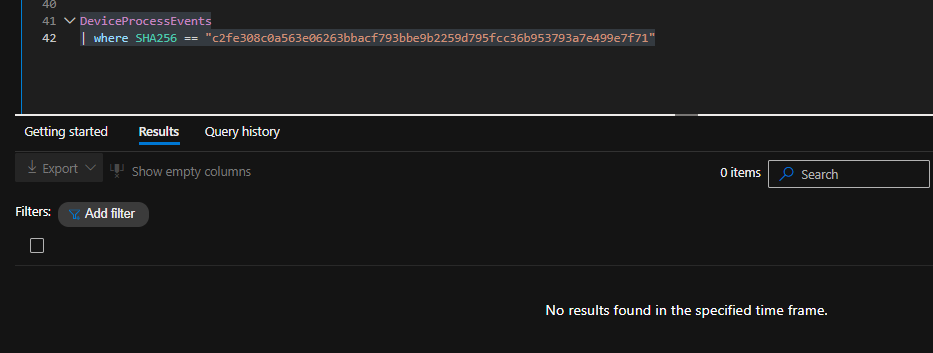
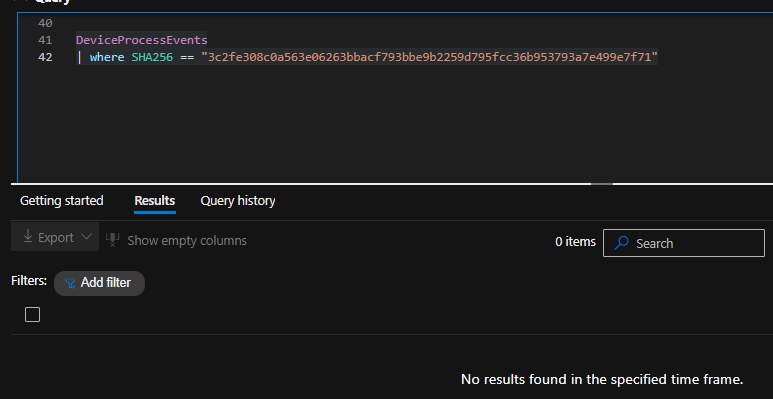
WT

diff --git a/walkthrough.md b/walkthrough.md
@@ -137,15 +137,92 @@ Additional administrator authentication attempts were observed from new external
 
 ---
 
-## Step 8 — Incident Scope & Final Assessment
+## Step 8 — Incident Scope Validation (IOC Sweep)
 
-**Objective:** Understand the full scope of the attack.
+**Objective:** Validate the full blast radius of the incident by determining whether known attacker infrastructure or malware artifacts exist on additional assets.
 
-The Defender incident graph was reviewed to visualize relationships between attacker infrastructure, affected assets, user accounts, and malicious activity.
+After confirming hands-on-keyboard access to the domain controller, scoping activities were performed to ensure the compromise was limited to a single system. This included reviewing authentication activity from all identified attacker IPs and performing an environment-wide sweep for known malicious file hashes.
 
-![Incident graph showing post-compromise attacker activity](screenshots/2025-11-27-mts-dc-compromise-incident-graph.png)
+---
 
-*Incident graph illustrating attacker interactions, affected assets, and investigation scope.*
+### IP-Based Scope Validation
+
+Known attacker IP addresses were reviewed across authentication telemetry to determine whether any additional endpoints successfully authenticated or interacted with attacker infrastructure.
+
+#### IP: 80.64.19.57 (WIN-MSK4CEAIDIG)
+
+![Authentication activity from 80.64.19.57 across the environment](screenshots/2025-11-27-mts-dc-compromise-104.png)
+
+*Environment-wide authentication review for external IP 80.64.19.57 showing successful logons limited to the domain controller.*
+
+**Assessment:**  
+Authentication activity from `80.64.19.57` was limited to `mts-dc`. No additional assets were accessed.
+
+---
+
+#### IP: 45.227.254.155 (b_116)
+
+![Authentication activity from 45.227.254.155 across the environment](screenshots/2025-11-27-mts-dc-compromise-105.png)
+
+*Authentication telemetry review for IP 45.227.254.155 showing activity scoped to the domain controller.*
+
+**Assessment:**  
+No evidence of successful authentication or interactive access on assets other than the domain controller.
+
+---
+
+#### IP: 202.53.6.68
+
+![Network logon activity from 202.53.6.68](2025-11-27-mts-dc-compromise-100.png)
+
+*Network logon activity originating from 202.53.6.68 showing repeated authentication attempts limited to the domain controller.*
+
+**Assessment:**  
+Activity from this IP did not result in access to additional assets. Subsequent SMB-based actions were blocked.
+
+---
+
+### File Hash Scope Validation
+
+Environment-wide process execution telemetry was reviewed to identify whether known malicious file hashes were present on any additional endpoints.
+
+#### Hash: svchost.exe (Masquerading / CryptInject)
+
+![Environment-wide hash sweep for masquerading svchost.exe](screenshots/2025-11-27-mts-dc-compromise-102.png)
+
+*Environment-wide hash sweep for the malicious svchost.exe hash returning no additional results.*
+
+**Assessment:**  
+The masquerading `svchost.exe` hash was not observed executing on any other assets.
+
+---
+
+#### Hash: RRcatEtz.exe (RemoteExec)
+
+![Environment-wide hash sweep for RRcatEtz.exe](screenshots/2025-11-27-mts-dc-compromise-101.png)
+
+*Environment-wide hash sweep for RRcatEtz.exe confirming no presence outside the domain controller.*
+
+**Assessment:**  
+`RRcatEtz.exe` was not found on any other endpoints in the environment.
+
+---
+
+### Scope Determination
+
+Based on IP-based authentication review and environment-wide file hash scoping:
+
+- Attacker infrastructure interacted only with the domain controller
+- No additional endpoints authenticated successfully
+- No malicious file hashes were observed on other assets
+- No evidence of lateral movement or secondary endpoint compromise was identified
+
+---
+
+### Analyst Conclusion — Scope
+
+The incident was successfully contained to a single asset (`mts-dc`). Although multiple attacker IPs and re-entry attempts were observed, environment-wide scoping confirmed no additional compromise or malware propagation beyond the domain controller.
+
 
 ---
 
